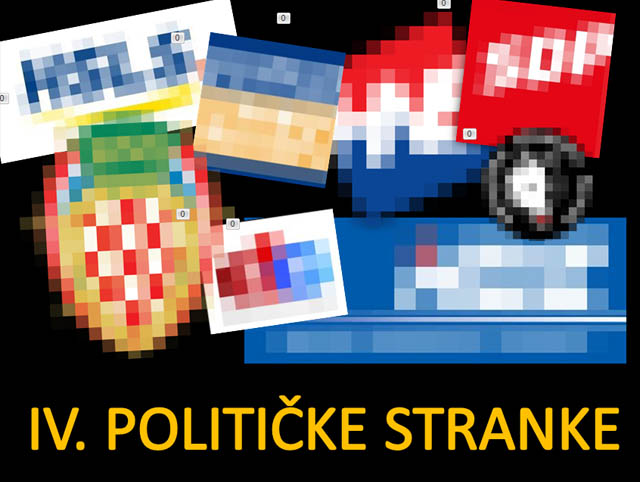
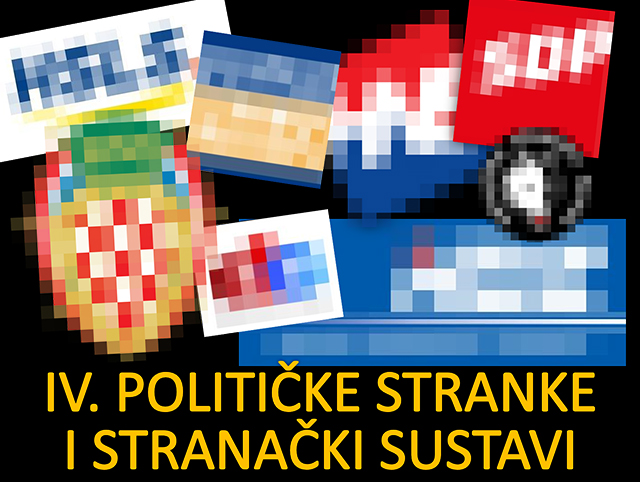
img

diff --git a/index.html b/index.html
@@ -165,7 +165,7 @@
       <a href="data/pdf/G4/004_politicke_stranke.pdf">
             <img class="img-responsive slika" src="img/004_pol_stranke.jpg" alt="004 - Političke stranke">
         </a>
-      <caption class="col-xs-12">004 - Političke stranke</caption>
+      <caption class="col-xs-12">004 - Političke stranke i stranački sustavi</caption>
     </div>
     <!-- 004 - Političke stranke -->
     <div class="row">
